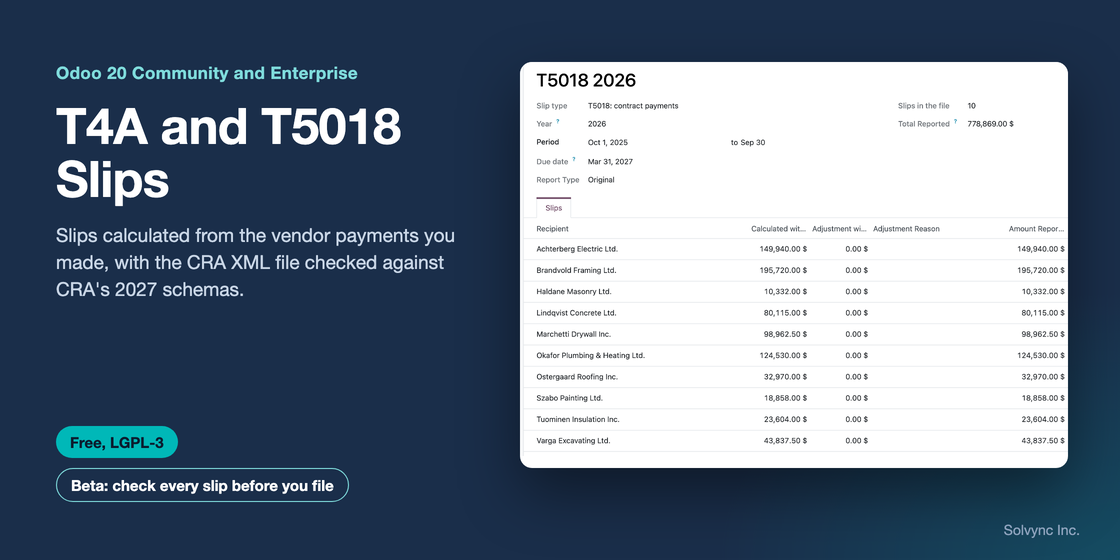
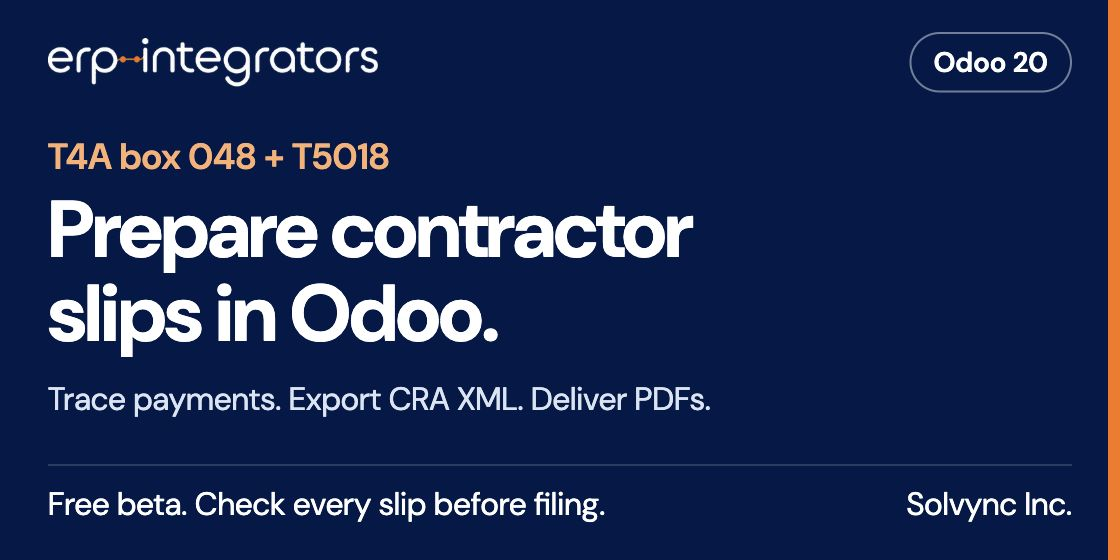
Refresh app artwork and contractor slip guidance for free beta 20.0.0.1.2

diff --git a/l10n_ca_contractor_slips/static/description/index.html b/l10n_ca_contractor_slips/static/description/index.html
@@ -1,7 +1,10 @@
 <h1 id="t4a-and-t5018-slips">T4A and T5018 Slips</h1>
 <p>License: LGPL-3</p>
-<p>This module prepares Canada Revenue Agency information returns for
-the people and businesses you pay as contractors:</p>
+<p>Prepare T4A box 048 and T5018 contractor tax slips in Odoo 20, using
+the vendor payments recorded in your accounting. Review each
+contractor's total, trace the bills and payments behind it, and create a
+CRA XML file for your business to review and upload.</p>
+<p>The module covers two Canadian contractor reporting workflows:</p>
 <ul>
 <li><strong>T4A, box 048</strong>: fees for services paid to
 self-employed people and businesses, before GST/HST and PST, for each
@@ -14,12 +17,13 @@ more than $500 before tax instead.</li>
 </ul>
 <p>Amounts come from what you actually paid. The module reads posted
 vendor bills and the cash matched to them, so a bill dated in December
-and paid in January counts in January, a refund lowers the total, and
-goods on the same bill are left out. A credit note applied to a bill
-counts as settling both, each at its own mix of services and goods.
-Foreign-currency bills count the Canadian dollars actually paid, and an
-early payment discount reduces only the bill that earned it. Every
-amount on a slip links back to the bills and payments behind it.</p>
+and paid in January counts in January, a refund lowers the total. T4A
+leaves goods out; T5018 follows the selected mixed-bill setting. A
+credit note applied to a bill counts as settling both, each at its own
+mix of services and goods. Foreign-currency bills count the Canadian
+dollars actually paid, and an early payment discount reduces only the
+bill that earned it. Every amount on a slip links back to the bills and
+payments behind it.</p>
 <p>From there you can:</p>
 <ul>
 <li>review and adjust slips (each adjustment needs a reason and is
@@ -39,29 +43,74 @@ field, account tags, vendor bills, payments and bank reconciliation.
 Odoo Online databases cannot install modules from the app store. The
 module downloads CRA's public XML schemas from canada.ca the first time
 you finalize a return.</p>
-<h2 id="screens">Screens</h2>
-<p>Odoo 20 Enterprise with the module installed, on a demo company.
-Every name, number and amount on these screens is invented.</p>
-<p><img class="img-fluid" src="screenshots/return-calculated.png"
-alt="A T5018 return after Calculate slips, with ten subcontractor slips totalling 778,869.00 and a due date of March 31, 2027" /></p>
-<p>A T5018 return after Calculate slips: one slip for each subcontractor
-paid in the reporting year.</p>
-<p><img class="img-fluid" src="screenshots/slip-payments.png"
-alt="One T5018 slip opened, listing four payments with the date each was paid, the bill it settled and the amount counted" /></p>
-<p>One slip opened: the payments behind its amount, the day each was
-paid and the bill each settled.</p>
-<p><img class="img-fluid" src="screenshots/return-final.png"
-alt="The return after Finalize, with the CRA XML file attached and buttons to download it, mark the return as filed, print and email slips" /></p>
-<p>After Finalize: the XML file is built, checked against CRA's schemas
-and attached to the return.</p>
-<p><img class="img-fluid" src="screenshots/settings.png"
-alt="The Canadian Contractor Slips block in Accounting settings" /></p>
-<p>The settings: payer accounts, CRA sign-in, filing contact and the
-T5018 reporting period.</p>
-<p><img class="img-fluid" src="screenshots/portal-tax-slips.png"
-alt="The portal Tax slips page as a subcontractor sees it, with one T5018 slip and a download link" /></p>
-<p>The recipient's own portal page, with their slip ready to
-download.</p>
+<h2 id="review-the-contractor-reporting-workflow">Review the contractor
+reporting workflow</h2>
+<p>These screens show a staged T5018 return in Odoo 20 Enterprise.
+Names, amounts and records are demo data. The module also supports T4A
+box 048. Each image focuses on one part of the workflow; the accounting
+and filing limits below apply to both editions.</p>
+<div class="row">
+<div class="col-12 col-lg-6 mb-4">
+<img class="img-fluid" width="1200" height="1200" src="screenshots/01-reporting-period.png" alt="T5018 return in Odoo showing the reporting period, ten slips and a total reported of 778,869 Canadian dollars" />
+</div>
+<div class="col-12 col-lg-6 mb-4">
+<img class="img-fluid" width="1200" height="1200" src="screenshots/02-reported-amount.png" alt="A contractor's T5018 slip showing 186,400 dollars before tax and 195,720 dollars reported with tax" />
+</div>
+<div class="col-12 col-lg-6 mb-4">
+<img class="img-fluid" width="1200" height="1200" src="screenshots/03-payment-trace.png" alt="The payment trace on an Odoo contractor slip, with four paid dates and the vendor bills each payment settled" />
+</div>
+<div class="col-12 col-lg-6 mb-4">
+<img class="img-fluid" width="1200" height="1200" src="screenshots/04-cra-xml.png" alt="A finalized T5018 return with Download CRA file and its generated XML attachment, prepared for the buyer to upload" />
+</div>
+<div class="col-12 col-lg-6 mb-4">
+<img class="img-fluid" width="1200" height="1200" src="screenshots/05-recipient-portal.png" alt="The contractor portal listing a T5018 for 2026, the recipient's amount and a PDF download link" />
+</div>
+</div>
+
+<h2 id="questions-about-t4a-and-t5018-in-odoo">Questions about T4A and
+T5018 in Odoo</h2>
+<h3 id="which-t4a-slips-does-this-module-prepare">Which T4A slips does
+this module prepare?</h3>
+<p>It prepares T4A box 048, fees for services, from supported contractor
+payments in Odoo. It does not prepare the full range of T4A income boxes
+or employee T4 payroll slips. Review the setup instructions and known
+limits with the person responsible for your return.</p>
+<h3 id="does-it-submit-the-return-to-cra">Does it submit the return to
+CRA?</h3>
+<p>You download the T4A or T5018 XML file and upload it through CRA's
+Internet File Transfer service using your own authorized account. The
+module checks XML structure against the published schema. It does not
+submit the return or verify CRA acceptance.</p>
+<h3 id="can-i-trace-an-amount-back-to-the-vendor-payments">Can I trace
+an amount back to the vendor payments?</h3>
+<p>Each calculated slip lists the supported payments and bills behind
+its amount. Review these lines, the return's warnings and any
+adjustments before filing. Opening balances and journal settlements need
+the checks described in the setup instructions and known limits.</p>
+<h3 id="how-do-recipients-get-their-copies">How do recipients get their
+copies?</h3>
+<p>You can print recipient PDFs or provide them through the recipient's
+Odoo portal. Email delivery requires the recipient's consent and your
+own configured outgoing mail server. Review portal access, consent,
+paper requests and delivery results before treating delivery as
+complete.</p>
+<h3 id="can-i-install-it-on-odoo-online">Can I install it on Odoo
+Online?</h3>
+<p>Use Odoo 20 Community or Enterprise on Odoo.sh or your own server.
+Odoo Online does not allow installation of this custom Python module.
+The accounting workflow uses Canadian localization and the setup
+described below.</p>
+<h3 id="what-does-the-beta-cost">What does the beta cost?</h3>
+<p>The module is free under LGPL-3. Hosting, Odoo subscriptions and any
+separately agreed implementation or support services are outside that
+price. Check each slip against your records before filing. Your business
+remains responsible for the return and recipient delivery.</p>
+<h3 id="who-should-maintain-the-annual-filing-setup">Who should maintain
+the annual filing setup?</h3>
+<p>Assign an owner to check the current CRA schema, form requirements
+and your reporting settings before each filing season. Read the known
+issues and roadmap before choosing a filing workflow. Current CRA
+interpretation questions remain part of the beta review.</p>
 <h2 id="before-you-file">Before you file</h2>
 <p>This module helps you prepare T4A and T5018 returns for the Canada
 Revenue Agency (CRA). It gives no tax, accounting or legal advice;

diff --git a/l10n_ca_contractor_slips/__manifest__.py b/l10n_ca_contractor_slips/__manifest__.py
@@ -2,11 +2,12 @@
 # License LGPL-3.0 (https://www.gnu.org/licenses/lgpl-3.0).
 {
     "name": "T4A and T5018 Slips",
-    "summary": "T4A box 048 and T5018 slips from vendor payments, with CRA XML, PDF slips and portal delivery",
-    "version": "20.0.0.1.1",
+    "summary": "T4A box 048 and T5018 contractor tax slips for Odoo, with payment traces, CRA XML and recipient PDFs",
+    "version": "20.0.0.1.2",
     "category": "Accounting/Localizations/Reporting",
     "author": "Solvync Inc.",
-    "website": "https://solvync.com",
+    "website": "https://erpintegrators.com",
+    "support": "info@erpintegrators.com",
     "license": "LGPL-3",
     "images": ["static/description/banner.png"],
     "countries": ["ca"],

diff --git a/l10n_ca_contractor_slips/readme/SCREENS.md b/l10n_ca_contractor_slips/readme/SCREENS.md
@@ -1,24 +1,68 @@
-## Screens
+## Review the contractor reporting workflow
 
-Odoo 20 Enterprise with the module installed, on a demo company. Every name, number and amount on
-these screens is invented.
+These screens show a staged T5018 return in Odoo 20 Enterprise. Names, amounts and records
+are demo data. The module also supports T4A box 048. Each image focuses on one part of the
+workflow; the accounting and filing limits below apply to both editions.
 
-![A T5018 return after Calculate slips, with ten subcontractor slips totalling 778,869.00 and a due date of March 31, 2027](screenshots/return-calculated.png)
+<div class="row">
+<div class="col-12 col-lg-6 mb-4">
+<img width="1200" height="1200" src="screenshots/01-reporting-period.png" alt="T5018 return in Odoo showing the reporting period, ten slips and a total reported of 778,869 Canadian dollars" />
+</div>
+<div class="col-12 col-lg-6 mb-4">
+<img width="1200" height="1200" src="screenshots/02-reported-amount.png" alt="A contractor's T5018 slip showing 186,400 dollars before tax and 195,720 dollars reported with tax" />
+</div>
+<div class="col-12 col-lg-6 mb-4">
+<img width="1200" height="1200" src="screenshots/03-payment-trace.png" alt="The payment trace on an Odoo contractor slip, with four paid dates and the vendor bills each payment settled" />
+</div>
+<div class="col-12 col-lg-6 mb-4">
+<img width="1200" height="1200" src="screenshots/04-cra-xml.png" alt="A finalized T5018 return with Download CRA file and its generated XML attachment, prepared for the buyer to upload" />
+</div>
+<div class="col-12 col-lg-6 mb-4">
+<img width="1200" height="1200" src="screenshots/05-recipient-portal.png" alt="The contractor portal listing a T5018 for 2026, the recipient's amount and a PDF download link" />
+</div>
+</div>
 
-A T5018 return after Calculate slips: one slip for each subcontractor paid in the reporting year.
+## Questions about T4A and T5018 in Odoo
 
-![One T5018 slip opened, listing four payments with the date each was paid, the bill it settled and the amount counted](screenshots/slip-payments.png)
+### Which T4A slips does this module prepare?
 
-One slip opened: the payments behind its amount, the day each was paid and the bill each settled.
+It prepares T4A box 048, fees for services, from supported contractor payments in Odoo.
+It does not prepare the full range of T4A income boxes or employee T4 payroll slips.
+Review the setup instructions and known limits with the person responsible for your return.
 
-![The return after Finalize, with the CRA XML file attached and buttons to download it, mark the return as filed, print and email slips](screenshots/return-final.png)
+### Does it submit the return to CRA?
 
-After Finalize: the XML file is built, checked against CRA's schemas and attached to the return.
+You download the T4A or T5018 XML file and upload it through CRA's Internet File Transfer
+service using your own authorized account. The module checks XML structure against the
+published schema. It does not submit the return or verify CRA acceptance.
 
-![The Canadian Contractor Slips block in Accounting settings](screenshots/settings.png)
+### Can I trace an amount back to the vendor payments?
 
-The settings: payer accounts, CRA sign-in, filing contact and the T5018 reporting period.
+Each calculated slip lists the supported payments and bills behind its amount. Review these
+lines, the return's warnings and any adjustments before filing. Opening balances and journal
+settlements need the checks described in the setup instructions and known limits.
 
-![The portal Tax slips page as a subcontractor sees it, with one T5018 slip and a download link](screenshots/portal-tax-slips.png)
+### How do recipients get their copies?
 
-The recipient's own portal page, with their slip ready to download.
+You can print recipient PDFs or provide them through the recipient's Odoo portal. Email
+delivery requires the recipient's consent and your own configured outgoing mail server.
+Review portal access, consent, paper requests and delivery results before treating delivery
+as complete.
+
+### Can I install it on Odoo Online?
+
+Use Odoo 20 Community or Enterprise on Odoo.sh or your own server. Odoo Online does not
+allow installation of this custom Python module. The accounting workflow uses Canadian
+localization and the setup described below.
+
+### What does the beta cost?
+
+The module is free under LGPL-3. Hosting, Odoo subscriptions and any separately agreed
+implementation or support services are outside that price. Check each slip against your
+records before filing. Your business remains responsible for the return and recipient delivery.
+
+### Who should maintain the annual filing setup?
+
+Assign an owner to check the current CRA schema, form requirements and your reporting
+settings before each filing season. Read the known issues and roadmap before choosing a
+filing workflow. Current CRA interpretation questions remain part of the beta review.

diff --git a/l10n_ca_contractor_slips/README.rst b/l10n_ca_contractor_slips/README.rst
@@ -4,8 +4,12 @@ T4A and T5018 Slips
 
 License: LGPL-3
 
-This module prepares Canada Revenue Agency information returns for the
-people and businesses you pay as contractors:
+Prepare T4A box 048 and T5018 contractor tax slips in Odoo 20, using the
+vendor payments recorded in your accounting. Review each contractor's
+total, trace the bills and payments behind it, and create a CRA XML file
+for your business to review and upload.
+
+The module covers two Canadian contractor reporting workflows:
 
 - **T4A, box 048**: fees for services paid to self-employed people and
   businesses, before GST/HST and PST, for each recipient paid more than
@@ -18,12 +22,13 @@ people and businesses you pay as contractors:
 
 Amounts come from what you actually paid. The module reads posted vendor
 bills and the cash matched to them, so a bill dated in December and paid
-in January counts in January, a refund lowers the total, and goods on
-the same bill are left out. A credit note applied to a bill counts as
-settling both, each at its own mix of services and goods.
-Foreign-currency bills count the Canadian dollars actually paid, and an
-early payment discount reduces only the bill that earned it. Every
-amount on a slip links back to the bills and payments behind it.
+in January counts in January, a refund lowers the total. T4A leaves
+goods out; T5018 follows the selected mixed-bill setting. A credit note
+applied to a bill counts as settling both, each at its own mix of
+services and goods. Foreign-currency bills count the Canadian dollars
+actually paid, and an early payment discount reduces only the bill that
+earned it. Every amount on a slip links back to the bills and payments
+behind it.
 
 From there you can:
 

diff --git a/l10n_ca_contractor_slips/readme/DESCRIPTION.md b/l10n_ca_contractor_slips/readme/DESCRIPTION.md
@@ -1,5 +1,8 @@
-This module prepares Canada Revenue Agency information returns for the people and businesses
-you pay as contractors:
+Prepare T4A box 048 and T5018 contractor tax slips in Odoo 20, using the vendor payments
+recorded in your accounting. Review each contractor's total, trace the bills and payments behind
+it, and create a CRA XML file for your business to review and upload.
+
+The module covers two Canadian contractor reporting workflows:
 
 - **T4A, box 048**: fees for services paid to self-employed people and businesses,
   before GST/HST and PST, for each recipient paid more than $500 in the calendar year.
@@ -10,7 +13,8 @@ you pay as contractors:
 
 Amounts come from what you actually paid. The module reads posted vendor bills and the cash
 matched to them, so a bill dated in December and paid in January counts in January, a refund
-lowers the total, and goods on the same bill are left out. A credit note applied to a bill
+lowers the total. T4A leaves goods out; T5018 follows the selected mixed-bill setting.
+A credit note applied to a bill
 counts as settling both, each at its own mix of services and goods. Foreign-currency bills count
 the Canadian dollars actually paid, and an early payment discount reduces only the bill that
 earned it. Every amount on a slip links back to the bills and payments behind it.

diff --git a/README.md b/README.md
@@ -53,6 +53,14 @@ Printed slips carry the National Flag of Canada, drawn from public-domain geomet
 slips you print yourself. Neither is Solvync's work, the LGPL licence covers Solvync's own code and
 text only, and their presence on a slip says nothing about CRA approval of this module.
 
+## Publisher and project links
+
+Published through [ERP Integrators](https://erpintegrators.com), a Solvync Inc. brand.
+The module is developed and maintained by [Solvync](https://solvync.com).
+For setup questions or a defect report, email [info@erpintegrators.com](mailto:info@erpintegrators.com).
+Include your Odoo version and the steps to reproduce the issue. Remove SINs and other personal
+data from screenshots and logs before sharing them.
+
 ## Development
 
 The tests need CRA's schema package, which `dev/fetch_schemas.sh` downloads:
